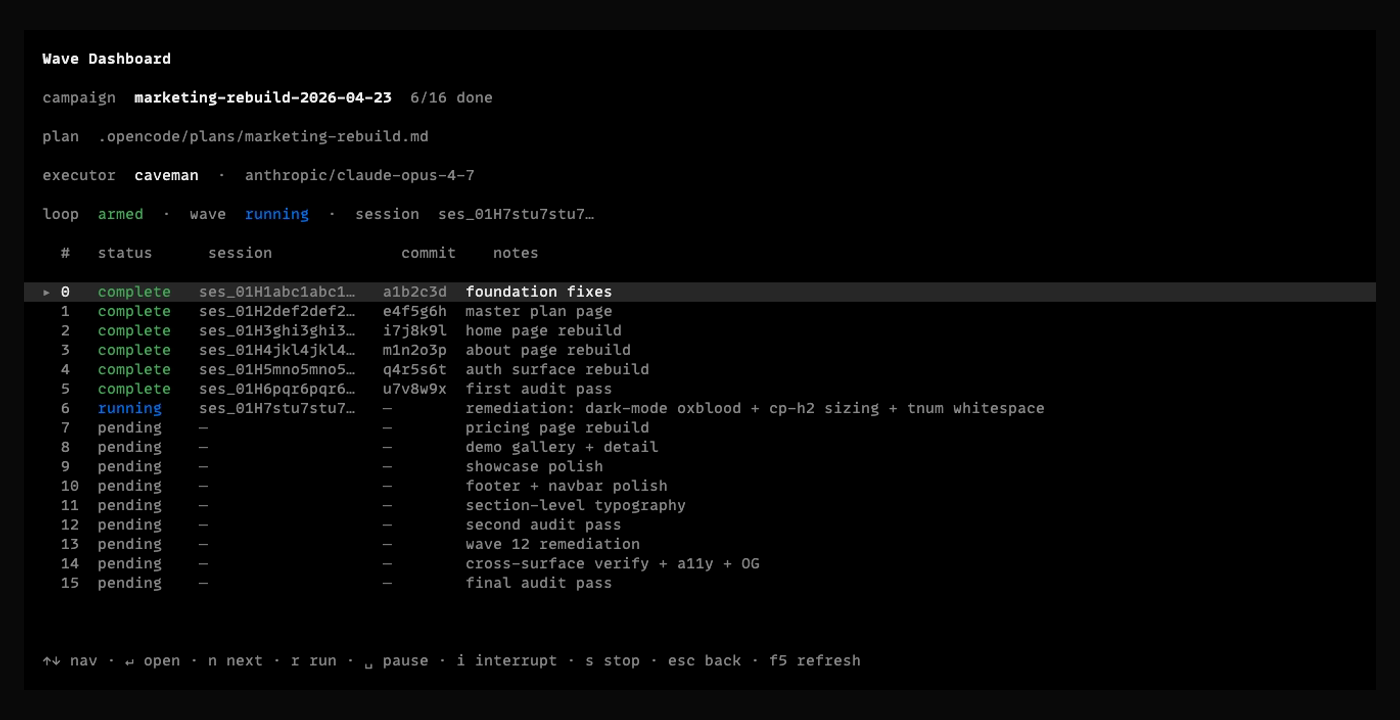
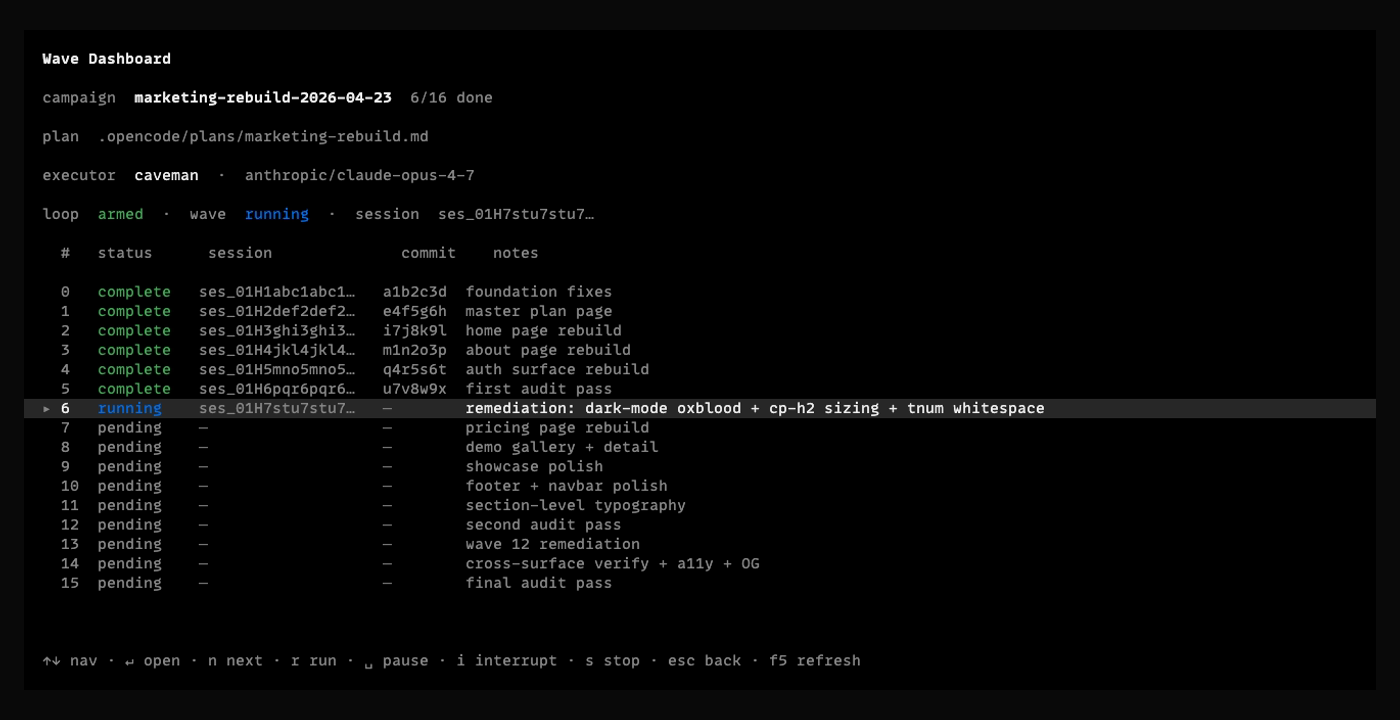
fix(wave/route): make cursor highlight reactive
Computed isCursor outside the JSX so cursor updates didn't re-render rows.
Wrapped in a closure (`const isCursor = () => idx === cursor()`) so
each text node reads the signal lazily. Same for noteDisplay (memoised).
Cursor + highlight now move with arrow / j-k input. Re-rendered tape
verified.

Changed region(s): [[0.0, 0.3667, 0.9829, 0.4278], [0.0, 0.55, 0.9829, 0.5806]]

diff --git a/packages/opencode/src/cli/cmd/tui/routes/wave/index.tsx b/packages/opencode/src/cli/cmd/tui/routes/wave/index.tsx
@@ -104,18 +104,23 @@ export function Wave() {
 
   const renderRow = (row: WaveRow, idx: number) => {
     const c = colors()
-    const isCursor = idx === cursor()
+    const isCursor = () => idx === cursor()
     const sessionDisplay = row.session_id ? row.session_id.slice(0, 16) + "…" : "—"
     const commitDisplay = row.commit_sha ?? "—"
-    const noteDisplay = truncate(row.notes, noteWidth())
+    const noteDisplay = createMemo(() => truncate(row.notes, noteWidth()))
     return (
-      <box flexDirection="row" paddingLeft={2} paddingRight={2} backgroundColor={isCursor ? theme.backgroundElement : undefined}>
-        <text fg={theme.textMuted}>{isCursor ? "▸ " : "  "}</text>
-        <text fg={isCursor ? theme.text : theme.textMuted}>{padRight(String(row.n), 4)}</text>
+      <box
+        flexDirection="row"
+        paddingLeft={2}
+        paddingRight={2}
+        backgroundColor={isCursor() ? theme.backgroundElement : undefined}
+      >
+        <text fg={theme.textMuted}>{isCursor() ? "▸ " : "  "}</text>
+        <text fg={isCursor() ? theme.text : theme.textMuted}>{padRight(String(row.n), 4)}</text>
         <text fg={c[row.status]}>{padRight(row.status, 11)}</text>
         <text fg={theme.textMuted}>{padRight(sessionDisplay, 20)}</text>
         <text fg={theme.textMuted}>{padRight(commitDisplay, 9)}</text>
-        <text fg={isCursor ? theme.text : theme.textMuted}>{noteDisplay}</text>
+        <text fg={isCursor() ? theme.text : theme.textMuted}>{noteDisplay()}</text>
       </box>
     )
   }
